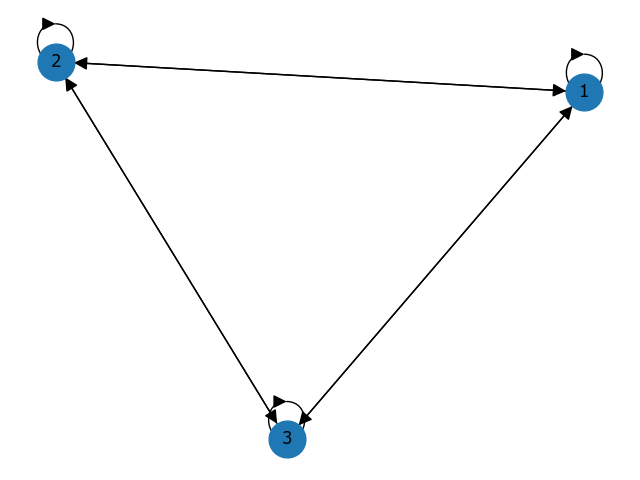
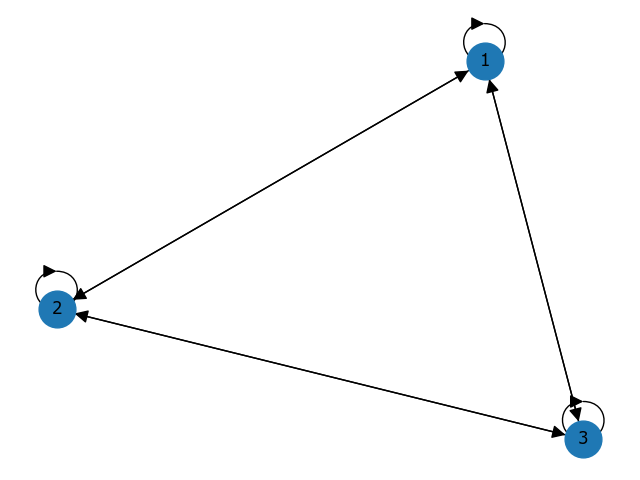
Изменён метод Гамильтонова цикла

diff --git a/BottleWebProject_922_3_VSHLS/routes.py b/BottleWebProject_922_3_VSHLS/routes.py
@@ -31,8 +31,8 @@ def contact():
         year=datetime.now().year
     )
 ##################################################################################################
-@route('/The_Euler_cycle')
-@view('The_Euler_cycle')
+@route('/theEulerCycle')
+@view('theEulerCycle')
 def The_Euler_cycle():
     """Renders the about page."""
     return dict(
@@ -130,22 +130,26 @@ def printer(res):
 def ex(str3):
     return printer(str3)
 
+def mastostr(str1):
+    str1 = str1.split(";")
+    mas1 = []
+    for i in range(len(str1)):
+        mas1 += [str1[i].split(",")]
+    return(mas1)
+
 @post('/floyd', method='post')
 def func():
-    str1= request.forms.get('TEXTFEALD')
-    cnt = 0
-    cont = 0
-    str1 = str1.replace(" ", "")
-    mas = str1.split(",")
-    mas1 = []
-    for i in mas:
-        mas1.append(list(i))
-    for i in range(len(mas1)):
-        for j in range(len(mas1[i])):
-            cnt + 0.5
-            cont +1
-            mas1[i][j] = (mas[i][j])
 
+    str1 = request.forms.get('TEXTFEALD')
+    str1 = str1.replace(" ", "")
+    cnt = 0
+    mas1 = mastostr(str1)
+    for i in range(len(mas1)):
+        cnt + 1
+        for j in range(len(mas1[i])):
+            if(j==2):
+                dicts = {'weight':int(mas1[i][j])}
+                mas1[i][j] = dicts
     edges = mas1       
     G = Graph()
     for i in range(1,cnt):
@@ -153,7 +157,7 @@ def func():
     G.add_edges_from(edges)
 
     pos = planar_layout(G)
-    draw(G, pos = circular_layout(G), with_labels = True, arrows = True)
+    draw(G, pos = circular_layout(G), with_labels = True, arrows = False)
     savefig('./static/images/floydgraph.png')
     answer="<p class=\"txt_algn_centr\"><img src=\"./static/images/floydgraph.png\" alt=\"Graph\"></p>"
     draw_networkx_edge_labels(G, pos)
@@ -215,7 +219,7 @@ def checkGraph():
 
             answer+="<p class=\"txt_algn_centr\">"+result+"</p>"
                 
-            draw(G, pos = circular_layout(G), with_labels = True)
+            draw(G, pos = circular_layout(G), with_labels = True, arrows=False)
             savefig('./static/images/hamilton_graph.png')
             close()
             answer+="<p class=\"txt_algn_centr\"><img src=\"./static/images/hamilton_graph.png\" alt=\"Graph\"></p> <input class=\"btn btn-default\" type=\"button\" onclick=\"history.back();\" value=\"Back\"></div></body>" 
